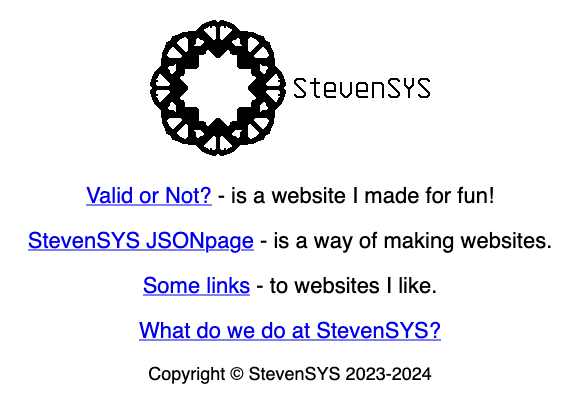
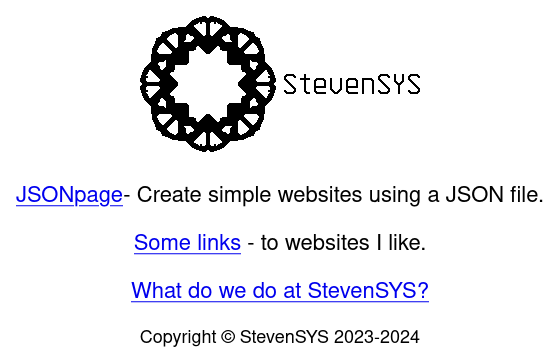
Things™

Changed region(s): [[0.0304, 0.0303, 0.9732, 0.6061], [0.2129, 0.7576, 0.7603, 0.9697], [0.2433, 0.6364, 0.7603, 0.7273]]

diff --git a/secret.html b/secret.html
@@ -7,7 +7,7 @@
 		<script src="https://ajax.googleapis.com/ajax/libs/jquery/3.7.1/jquery.min.js"></script>
 		<script src="https://ajax.googleapis.com/ajax/libs/jqueryui/1.13.2/jquery-ui.min.js"></script>
 		<script src="https://cdnjs.cloudflare.com/ajax/libs/crypto-js/4.2.0/crypto-js.min.js"></script>
-		<script src="/sha256.min.js"></script>
+		<script src="https://raw.githubusercontent.com/emn178/js-sha256/master/build/sha256.min.js"></script>
 		<link rel="stylesheet" href="/style.css">
 		<style>
 			body {

diff --git a/index.html b/index.html
@@ -12,12 +12,8 @@
 		<div class="center">
 			<img src="/Images/Logo2x.png" alt="StevenSYS Logo">
 			<p>
-				<a href="/von/">Valid or Not?</a>
-				- is a website I made for fun!
-			</p>
-			<p>
-				<a href="/jsonpage/">StevenSYS JSONpage</a>
-				- is a way of making websites.
+				<a href="/jsonpage/">JSONpage</a>
+				- Create simple websites using a JSON file.
 			</p>
 			<p>
 				<a href="/links">Some links</a>

diff --git a/README.md b/README.md
@@ -8,16 +8,3 @@ Dark Mode:
 ![Dark Mode Screenshot](/Images/ScreenshotDark.png)
 
 ---
-
-# Web Browser issue list
-
-| Browser | Issues | Browseable? |
-| ------- | ------ | :---------: |
-| Netscape Navigator 4.x | The Context Menu and all of The Moveable Objects are visible when they shouldn't be, jQuery isn't supported so The Context Menu doesn't work, Dark mode doesn't work, "text-align: center;" isn't supported so The Page isn't centered horizontally and PNG transparency isn't supported so all the images have a black background. | ![X](/Images/CBX.png) |
-| IE 5-8 | jQuery isn't supported so The Context Menu doesn't work, Dark mode doesn't work and "transform" isn't supported so The Page isn't centered vertically. | ![Check](/Images/CBCheck.png) |
-| MyPal 29.3.0 | "border-radius" isn't supported so The Context Menu has no border around it. | ![Check](/Images/CBCheck.png) |
-| MyPal 68.13.1b | None that I have found. | ![Check](/Images/CBCheck.png) |
-
-Browseable just means if I think the website looks glitched or not.
-
-A Check meaning no it doesn't look glitched.
